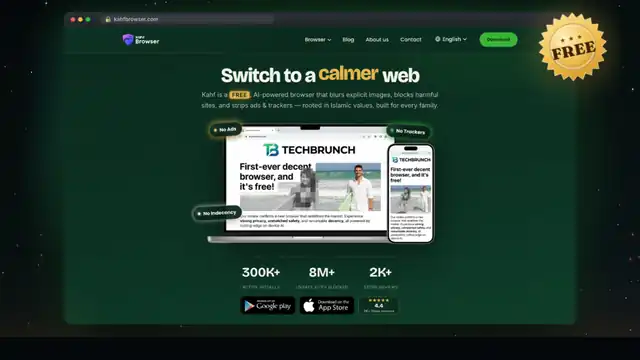
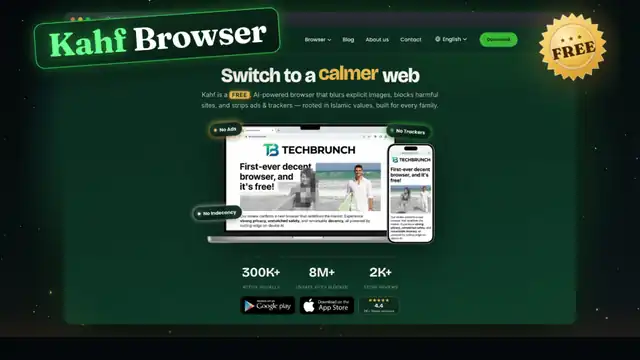
feat(deck): hide kahf-browser-new-tab (#66); Kahf Browser name badge on #65

diff --git a/assets/js/custom/part-c.js b/assets/js/custom/part-c.js
@@ -404,6 +404,8 @@ if (v93) {
     unstep: function (el) { var P = el.__p93; if (P) { P.menu.classList.remove('on'); P.ping.classList.remove('go'); } }
   });
 })();
+/* slide 66 (kahf-browser-new-tab) is hidden: kept in the deck, skipped when presenting (unhide: delete this line) */
+D.slides.forEach(function (s) { if (s.id === 'kahf-browser-new-tab') s.hidden = true; });
 // every video in the deck plays at 10% volume (muted ones stay muted)
 D.slides.forEach(function (s) { s.els.forEach(function (e) { if (e.k === 'video') e.vol = 0.1; }); });
 /* #50/#51 (Susan chat): blur "nūd£" so kids can't read it but adults can still make it out */
@@ -1032,6 +1034,22 @@ var freeBadge;
 
 })();
 
+/* "Kahf Browser" name badge on the kahfbrowser.com hero slide: overlaps the window's top-left corner (the FREE seal is on the right) */
+(function () {
+  if (document.getElementById('pc-kb-css')) return;
+  var st = document.createElement('style'); st.id = 'pc-kb-css';
+  st.textContent = [
+    '.pc-kb-name{position:absolute;left:48px;top:52px;padding:16px 40px 20px;border-radius:26px;transform:rotate(-4deg);z-index:5;white-space:nowrap;',
+    '  font:700 104px/1 var(--f-display);letter-spacing:-.02em;color:#fff;',
+    '  background:linear-gradient(160deg,rgba(14,52,30,.96),rgba(6,26,16,.97));box-shadow:0 0 0 3px #2EBA4C,0 0 46px rgba(46,186,76,.6),0 24px 60px rgba(0,0,0,.6)}',
+    '.pc-kb-name span{color:#6dff8f;text-shadow:0 0 34px rgba(46,186,76,.75)}',
+    '.pc-kb-name.pre{opacity:0}',
+    '.pc-kb-name.go{animation:pc-kb-pop .7s cubic-bezier(.3,1.4,.5,1) both}',
+    '@keyframes pc-kb-pop{0%{opacity:0;transform:rotate(-4deg) translateY(-40px) scale(.7)}100%{opacity:1;transform:rotate(-4deg) none}}'
+  ].join('\n');
+  document.head.appendChild(st);
+})();
+
 /* #92 (on-screen 61) kahfbrowser.com hero. media/kahfbrowser/hero-base.webp is the live hero with the headline removed;
    the headline is rebuilt from cut-outs of the site's own glyphs (hl-*.webp, 3x) laid out in the site's css px (1491 wide)
    and driven by the site's word rotator: calmer -> safer -> decent every 2.6 s, outgoing word drops out while the next
@@ -1064,10 +1082,13 @@ var freeBadge;
       var web = h('img', '', row); web.src = 'media/kahfbrowser/hl-web.webp'; web.alt = '';
       web.style.cssText = 'width:' + WEB.w + 'px;margin:0 ' + WEB.mr + 'px 0 ' + GAP2 + 'px';
       el.__hl = { rot: rot, ws: ws };
+      var nm = h('div', 'pc-kb-name' + (ctx.static || ctx.reduced ? '' : ' pre'), el, '<span>Kahf</span> Browser'); nm.setAttribute('aria-label', 'Kahf Browser');   // say which browser this slide is about
+      el.__name = nm;
       el.__free = freeBadge(el, ctx, !ctx.static && !ctx.reduced);   // same gold FREE seal as #94, on the window's top-right corner
     },
     enter: function (el, ctx) {
       if (el.__free) el.__free();
+      if (el.__name) ctx.timeout(function () { el.__name.classList.remove('pre'); el.__name.classList.add('go'); }, 500);
       var s = el.__hl; if (!s || ctx.static || ctx.reduced) return;
       var i = 0;
       s.ws.forEach(function (n, j) { n.classList.toggle('on', j === 0); n.classList.remove('out'); });

diff --git a/index.html b/index.html
@@ -32,7 +32,7 @@
 <!-- custom slides: add one <script> per file in assets/js/custom/ (must come before boot.js) -->
 <script src="assets/js/custom/part-a.js?v=12"></script>
 <script src="assets/js/custom/part-b.js?v=3"></script>
-<script src="assets/js/custom/part-c.js?v=54"></script>
+<script src="assets/js/custom/part-c.js?v=56"></script>
 <script src="assets/js/custom/part-d.js?v=8"></script>
 <script src="assets/js/custom/part-e.js?v=5"></script>
 <script src="assets/js/custom/topic-bar.js?v=5"></script>

diff --git a/SLIDES.md b/SLIDES.md
@@ -1,6 +1,6 @@
 # Slide map
 
-Every slide has a **number** (its position in the show, 1-81, the one on screen and in the overview) and a unique, stable **id**
+Every slide has a **number** (its position in the show, 1-80, the one on screen and in the overview) and a unique, stable **id**
 (the key used by `Deck.registerSlide`, `Deck.insertSlide({after})`, `Deck.goto`, and the URL: `#/roblox`). Numbers change when slides are
 added, moved or removed; ids do not. `#/34` and `#/treat-intro` both work.
 
@@ -74,21 +74,22 @@ use it; `—` marks slides that were added after the conversion.
 | 63 | `kahf-browser-video` | protect | 90 |
 | 64 | `choose-browser` | protect | 91 |
 | 65 | `kahf-browser-hero` | protect | 92 |
-| 66 | `kahf-browser-new-tab` | protect | 93 |
-| 67 | `browser-comparison` | protect | 94 |
-| 68 | `youtube-hide-content` | protect | 95 |
-| 69 | `youtube-train` | protect | 96 |
-| 70 | `kahf-kids-app` | protect | 97 |
-| 71 | `kid-google` | protect | — |
-| 72 | `wa-privacy` | protect | — |
-| 73 | `safety-checklist` | protect | 105 |
-| 74 | `trends-intro` | evidence | — |
-| 75 | `depression-chart` | evidence | 106 |
-| 76 | `self-harm-chart` | evidence | 107 |
-| 77 | `suicide-rate-chart` | evidence | 108 |
-| 78 | `suicide-rate-social-apps` | evidence | 109 |
-| 79 | `remember-this` | evidence | 110 |
-| 80 | `tahrim-66-6` | evidence | — |
-| 81 | `closing` | evidence | 112 |
+| 66 | `browser-comparison` | protect | 94 |
+| 67 | `youtube-hide-content` | protect | 95 |
+| 68 | `youtube-train` | protect | 96 |
+| 69 | `kahf-kids-app` | protect | 97 |
+| 70 | `kid-google` | protect | — |
+| 71 | `wa-privacy` | protect | — |
+| 72 | `safety-checklist` | protect | 105 |
+| 73 | `trends-intro` | evidence | — |
+| 74 | `depression-chart` | evidence | 106 |
+| 75 | `self-harm-chart` | evidence | 107 |
+| 76 | `suicide-rate-chart` | evidence | 108 |
+| 77 | `suicide-rate-social-apps` | evidence | 109 |
+| 78 | `remember-this` | evidence | 110 |
+| 79 | `tahrim-66-6` | evidence | — |
+| 80 | `closing` | evidence | 112 |
+
+Hidden (kept in the deck, not shown when presenting, no number): `kahf-browser-new-tab` (PowerPoint #93, was 66; set in part-c.js).
 
 Removed (were hidden): PowerPoint #2 (three panels), #4 (684,932 years), #48 (How to treat device addiction? title), #98, the live screen-time counter, the screen-time calculator and the "shepherd" closing slide.

diff --git a/AGENTS.md b/AGENTS.md
@@ -48,7 +48,7 @@ media/                      images, mp4 videos, plus charts/ games/ hours/ ink/ 
    (ids like `part-a-css`, class prefixes `pa-`, `pc-` …), registers/inserts slides, and may patch `DECK_DATA` in
    place (look slides up with `byId['<id>']`).
 4. **Hidden slides** (`hidden: true`) are supported (kept in `Deck.slides`, skipped by `Deck.order()` and numbered 0), but the
-   deck currently has none: the old hidden ones (counter, calculator, alternate closer, …) were deleted.
+   deck has one: `kahf-browser-new-tab` (set in part-c.js); the old hidden ones (counter, calculator, alternate closer, …) were deleted.
 5. Later scripts win: `registerSlide` merges with `Object.assign`, so part-c can override part-a/b for the same slide.
 
 ## Running and previewing
